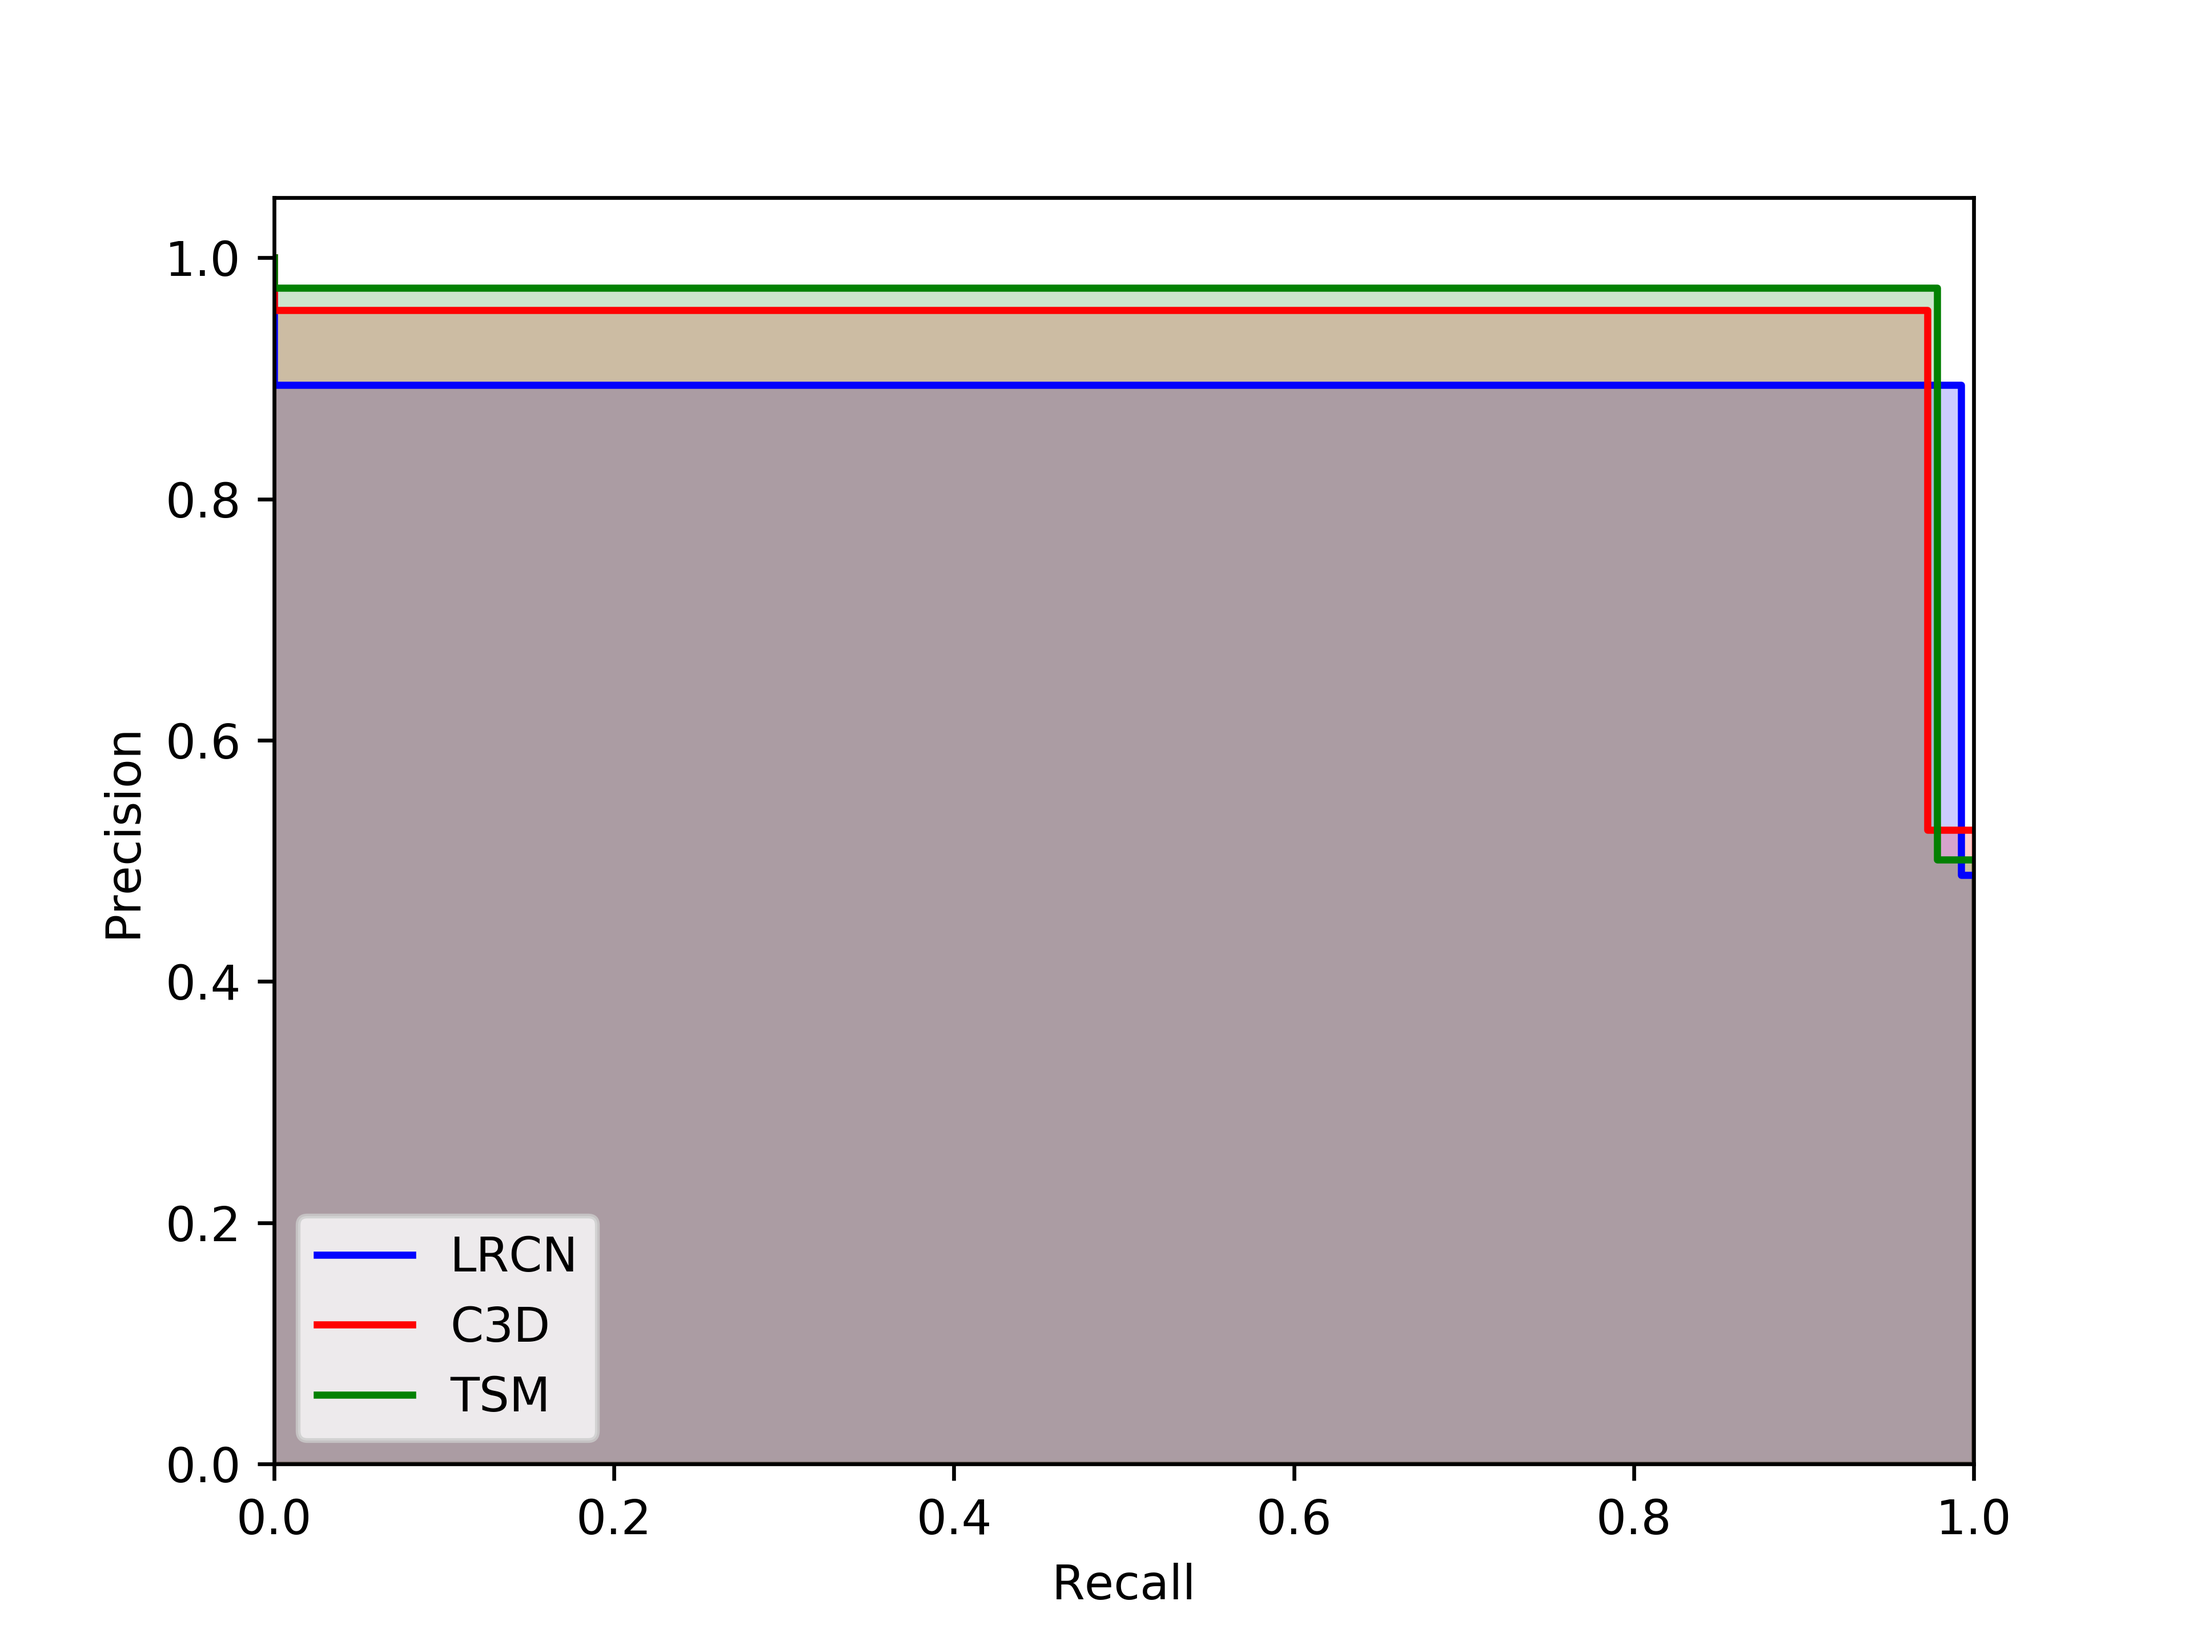
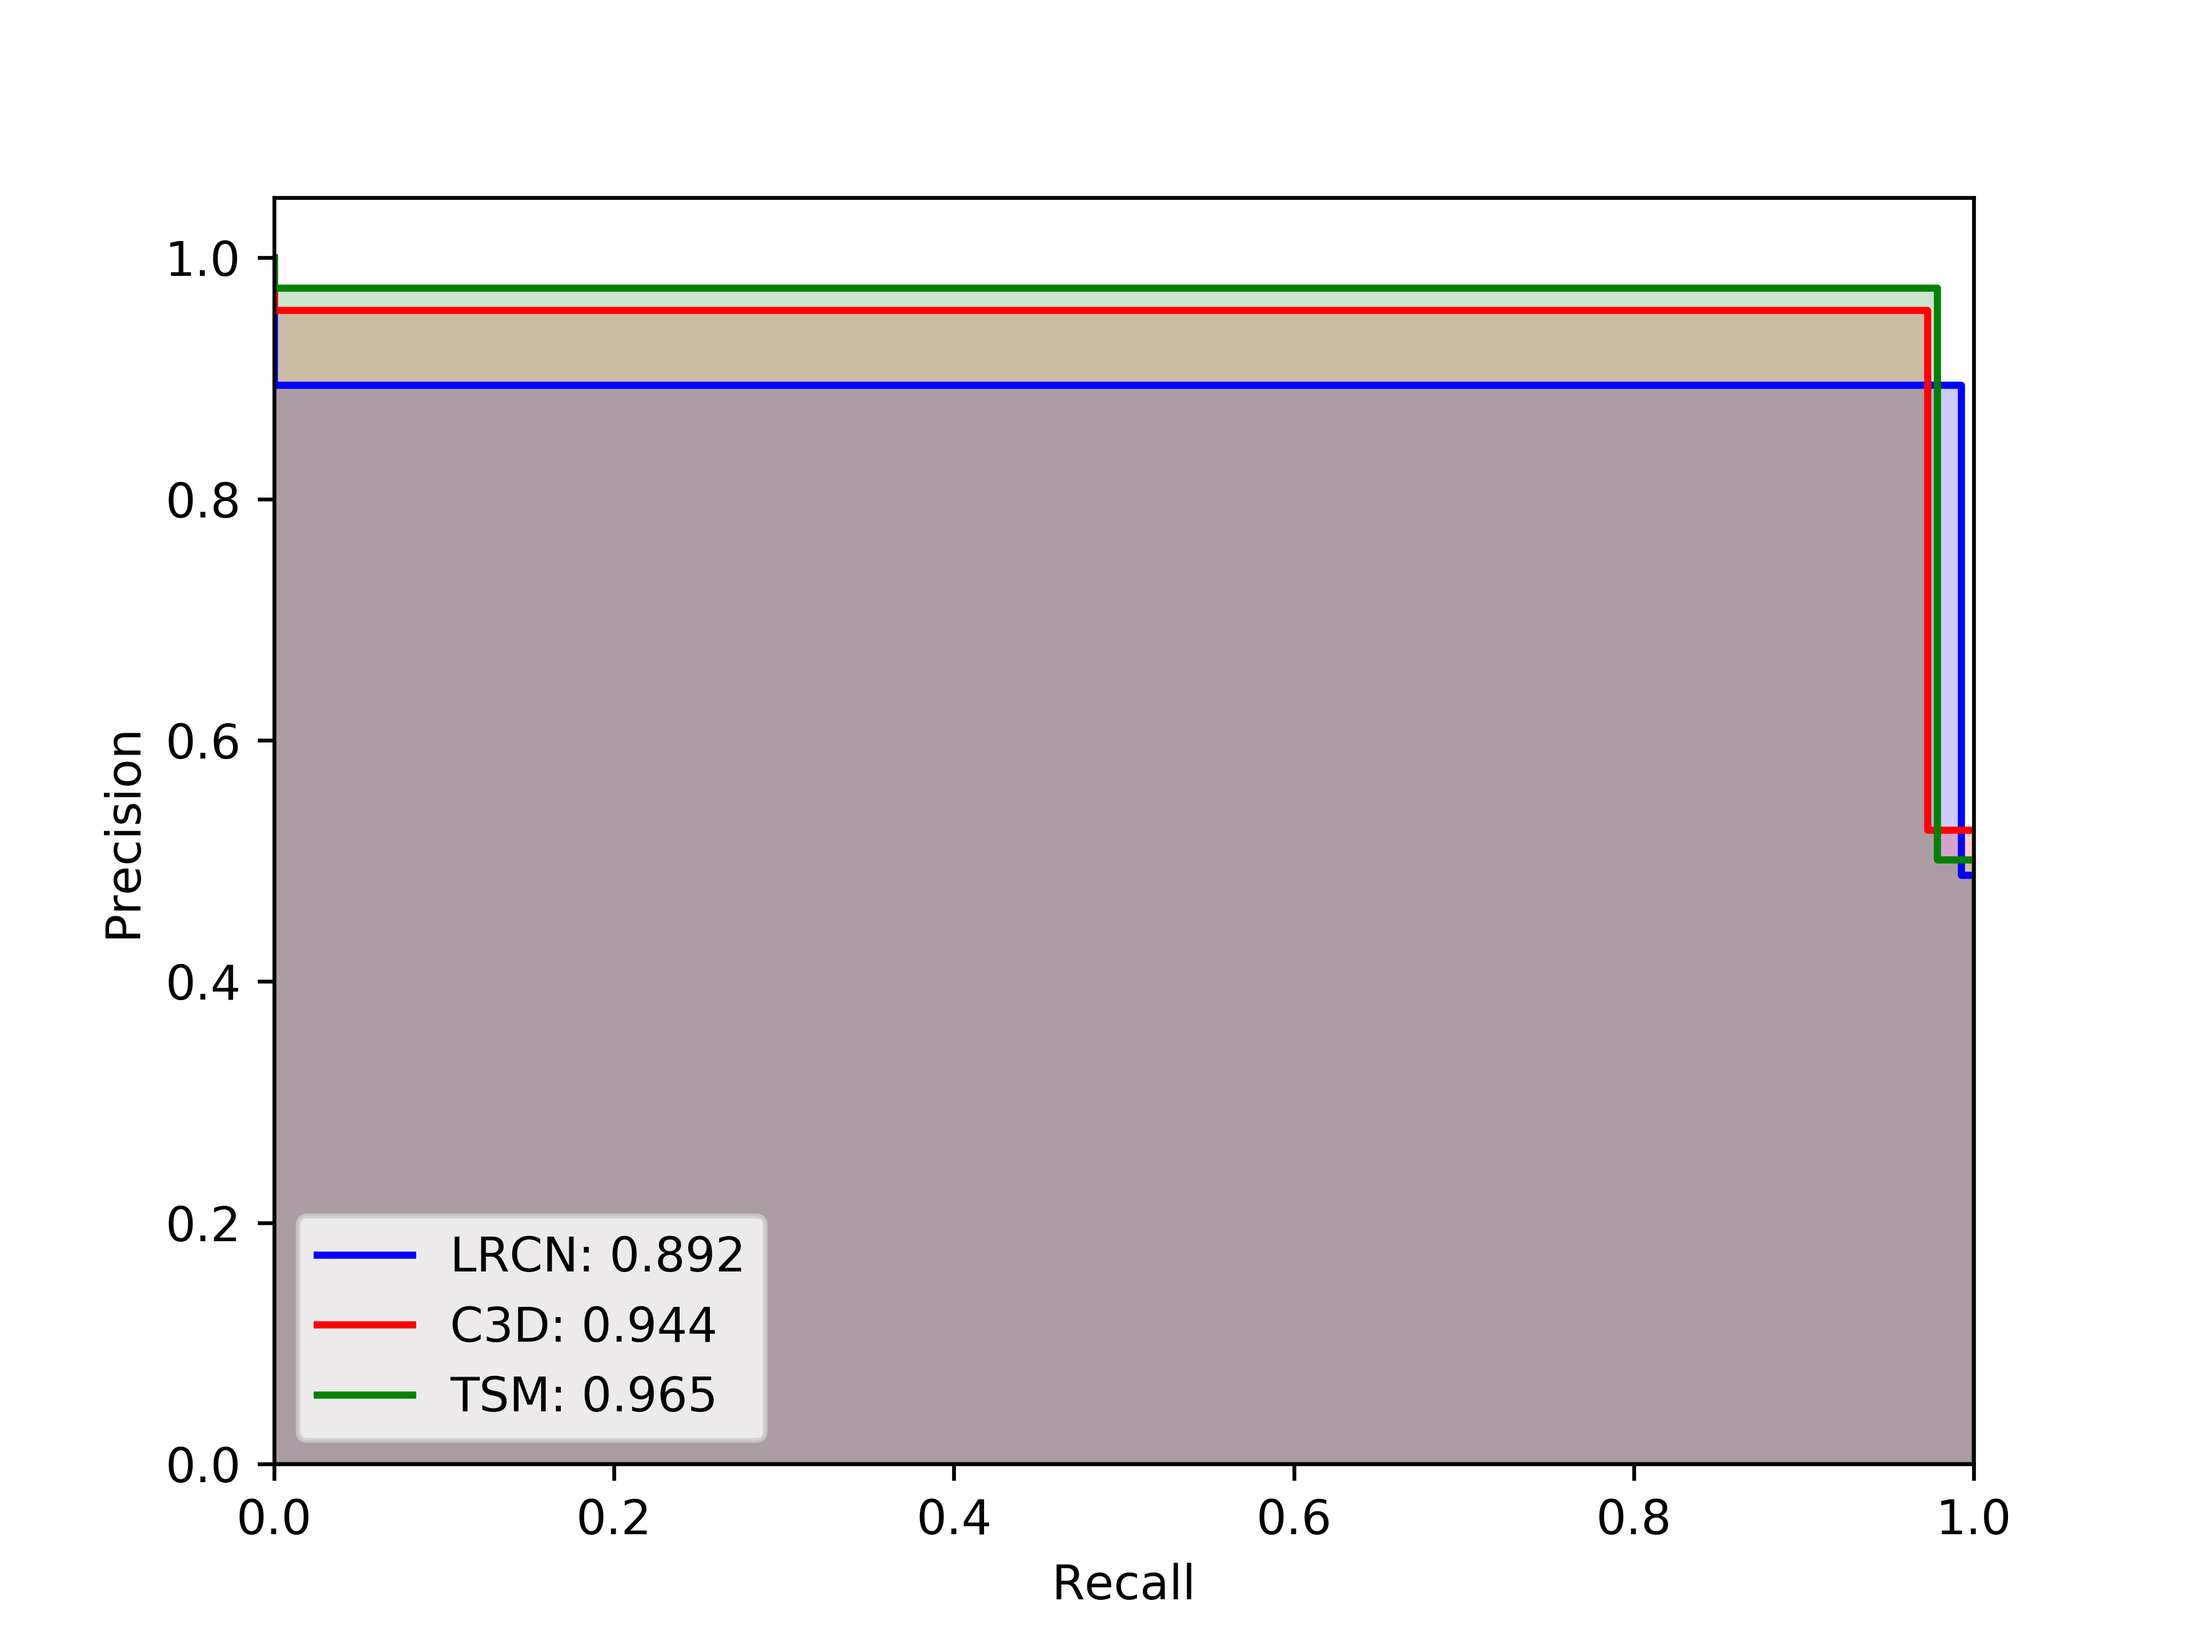
PR modified, code added for profiling models

Changed region(s): [[0.25, 0.7188, 0.375, 0.875]]

diff --git a/results/annotation_accuracy.py b/results/annotation_accuracy.py
@@ -1,7 +1,9 @@
 import os
+import sys
 import pandas as pd
 
-log_file = 'logs/lrcn-annotate.log'
+model = sys.argv[1]
+log_file = 'logs/%s-annotate.log'%model
 annotations_df = pd.read_csv('../data/action_annotation.csv')
 
 DEBUG = False
@@ -69,7 +71,7 @@ def get_hits(p_interval, time_intervals):
 
 with open(log_file, 'r') as l:
 
-	total_true_hits, total_false_hits, total_gt_hits = 0, 0, 0
+	total_true_hits, total_false_hits, total_gt_hits, total_frame_count = 0, 0, 0, 0
 	video_name = l.readline().split('.')[0]
 	while True:
 		
@@ -77,7 +79,7 @@ with open(log_file, 'r') as l:
 		investigate_df = annotations_df[(annotations_df['Scoring'] == video_name) & (annotations_df['Behaviour'] == 'Investigating')]
 		time_intervals = [interval(int(r['Start_Frame']), int(r['Stop_Frame'])) for _, r in investigate_df.iterrows()]
 		## Iterate through the log and update true hits and false hits count at frame level
-		true_hits, false_hits, gt_hits = 0, 0, sum([t.length for t in time_intervals])
+		true_hits, false_hits, gt_hits, frame_count = 0, 0, sum([t.length for t in time_intervals]), int(annotations_df[(annotations_df['Scoring'] == video_name) & (annotations_df['Value'] == 'End')]['Start_Frame'])
 		data = l.readline().split()
 		while len(data) == 3:
 			frame_id, prediction = int(data[0]), data[1]
@@ -90,14 +92,16 @@ with open(log_file, 'r') as l:
 				true_hits += t; false_hits += f 
 
 			data = l.readline().split()
-		print("%s: %f (%d/%d) %f (%d/%d)"%(video_name, true_hits/gt_hits, true_hits, gt_hits, false_hits/gt_hits, false_hits, gt_hits))
+		# print("%s: %f (%d/%d) %f (%d/%d)"%(video_name, true_hits/gt_hits, true_hits, gt_hits, false_hits/(frame_count - gt_hits), false_hits, (frame_count - gt_hits)))
+		print("%s %f %f"%(video_name.split('_')[2], true_hits/gt_hits, false_hits/(frame_count - gt_hits)))
 		total_true_hits += true_hits
 		total_false_hits += false_hits
 		total_gt_hits += gt_hits
+		total_frame_count += frame_count
 
 		if len(data) > 1: 
 			break
 
 		video_name = data[0].split('.')[0]
 
-	print("Final: %f (%d/%d) %f (%d/%d)"%(total_true_hits/total_gt_hits, total_true_hits, total_gt_hits, total_false_hits/total_gt_hits, total_false_hits, total_gt_hits))
+	print("Final: %f (%d/%d) %f (%d/%d)"%(total_true_hits/total_gt_hits, total_true_hits, total_gt_hits, total_false_hits/(total_frame_count - total_gt_hits), total_false_hits, (total_frame_count - total_gt_hits)))

diff --git a/LRCN/annotate.py b/LRCN/annotate.py
@@ -1,4 +1,6 @@
 import os
+import sys
+sys.path.append('..')
 import cv2
 import torch
 
@@ -6,14 +8,22 @@ from app.detector import PigActionDetector
 from model import ResnetEncoder, DecoderRNN
 from pi.feature_extractor_cpu import FeatureExtractorCPU
 
+from ptflops import get_model_complexity_info
+
 LOG = True
 
 ## Load CNN encoder
 cnn_encoder = ResnetEncoder(fc1_=1024, fc2_=1024, dropout=0.0, CNN_out=512)
-extractor = FeatureExtractorCPU(cnn_encoder, '../checkpoints-16/cnn_encoder_epoch21.pth')
+macs, params = get_model_complexity_info(cnn_encoder, (60,3, 224, 224), as_strings=True, print_per_layer_stat=False, verbose=True)
+print('{:<30}  {:<8}'.format('Computational complexity: ', macs))
+print('{:<30}  {:<8}'.format('Number of parameters: ', params))
+# extractor = FeatureExtractorCPU(cnn_encoder, '../checkpoints-16/cnn_encoder_epoch21.pth')
 
 ## Load RNN decoder
 rnn_decoder = DecoderRNN(CNN_out=512, h_RNN_layers=3, h_RNN=64, h_FC_dim=16, dropout=0, num_classes=2)
+macs, params = get_model_complexity_info(rnn_decoder, (1, 512), as_strings=True, print_per_layer_stat=False, verbose=True)
+print('{:<30}  {:<8}'.format('Computational complexity: ', macs))
+print('{:<30}  {:<8}'.format('Number of parameters: ', params))
 action_detector = PigActionDetector(rnn_decoder, '../checkpoints-16/rnn_decoder_epoch21.pth')
 
 ## Obtain list of videos

diff --git a/results/pr_curves/pr_plot.py b/results/pr_curves/pr_plot.py
@@ -8,11 +8,11 @@ tsm_precision = [0.50089127, 0.9751773, 1.]
 tsm_recall = [1., 0.97864769, 0.]
 
 fig, ax=plt.subplots()
-ax.step(lrcn_recall, lrcn_precision,color='b',alpha=0.99,where="post",label="LRCN")
+ax.step(lrcn_recall, lrcn_precision,color='b',alpha=0.99,where="post",label="LRCN: 0.892")
 ax.fill_between(lrcn_recall, lrcn_precision, alpha=0.2, color='b', step="post")
-ax.step(c3d_recall, c3d_precision,color='r',alpha=0.99,where="post",label="C3D")
+ax.step(c3d_recall, c3d_precision,color='r',alpha=0.99,where="post",label="C3D: 0.944")
 ax.fill_between(c3d_recall, c3d_precision, alpha=0.2, color='r', step="post")
-ax.step(tsm_recall, tsm_precision,color='g',alpha=0.99,where="post",label="TSM")
+ax.step(tsm_recall, tsm_precision,color='g',alpha=0.99,where="post",label="TSM: 0.965")
 ax.fill_between(tsm_recall, tsm_precision, alpha=0.2, color='g', step="post")
 plt.xlabel("Recall")
 plt.ylabel("Precision")

diff --git a/TSM/detector.py b/TSM/detector.py
@@ -7,6 +7,8 @@ from PIL import Image
 from ops.models import TSN
 from ops.transforms import *
 
+from ptflops import get_model_complexity_info
+
 X_CROP, Y_CROP = 350, 30
 
 class TSM_detector():
@@ -25,6 +27,11 @@ class TSM_detector():
 		            fc_lr5=False,
 		            temporal_pool=False,
 		            non_local=False)
+
+		macs, params = get_model_complexity_info(model, (24, 224, 224), as_strings=True,
+                                           print_per_layer_stat=False, verbose=True)
+		print('{:<30}  {:<8}'.format('Computational complexity: ', macs))
+		print('{:<30}  {:<8}'.format('Number of parameters: ', params))
 
 		## Define transforms
 		crop_size = model.crop_size

diff --git a/C3D/feature_extractor.py b/C3D/feature_extractor.py
@@ -22,6 +22,7 @@ class FeatureExtractor():
 		c3d_model = C3D(weights_path)
 		layer_name = 'fc6'
 		self.model = Model(inputs=c3d_model.input, outputs=c3d_model.get_layer(layer_name).output)
+		print("Number of model parameters: %d"%self.model.count_params())
 
 	def extract(self, clip):
 		"""

diff --git a/C3D/annotate-folder.py b/C3D/annotate-folder.py
@@ -9,7 +9,7 @@ from feature_extractor import FeatureExtractor
 LOG = True
 
 ## Load C3D feature extractor
-extractor = FeatureExtractor('c3d_sports1m.h5')
+# extractor = FeatureExtractor('c3d_sports1m.h5')
 
 ## Load Binary Classifier
 classifier = BinaryClassifier()
